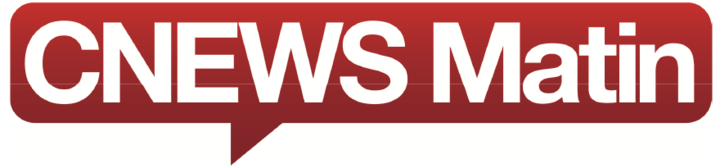
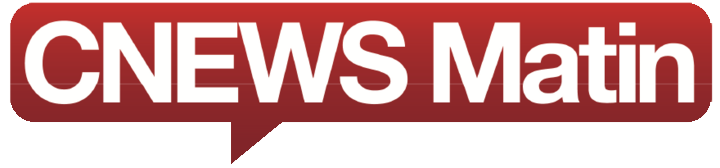
change width for image press

diff --git a/app/assets/stylesheets/contest.scss b/app/assets/stylesheets/contest.scss
@@ -110,7 +110,7 @@
 
       #press img{
         margin-top: 10px;
-        max-width: 250px;
+        max-width: 225px;
         padding: 10px
       }
 
